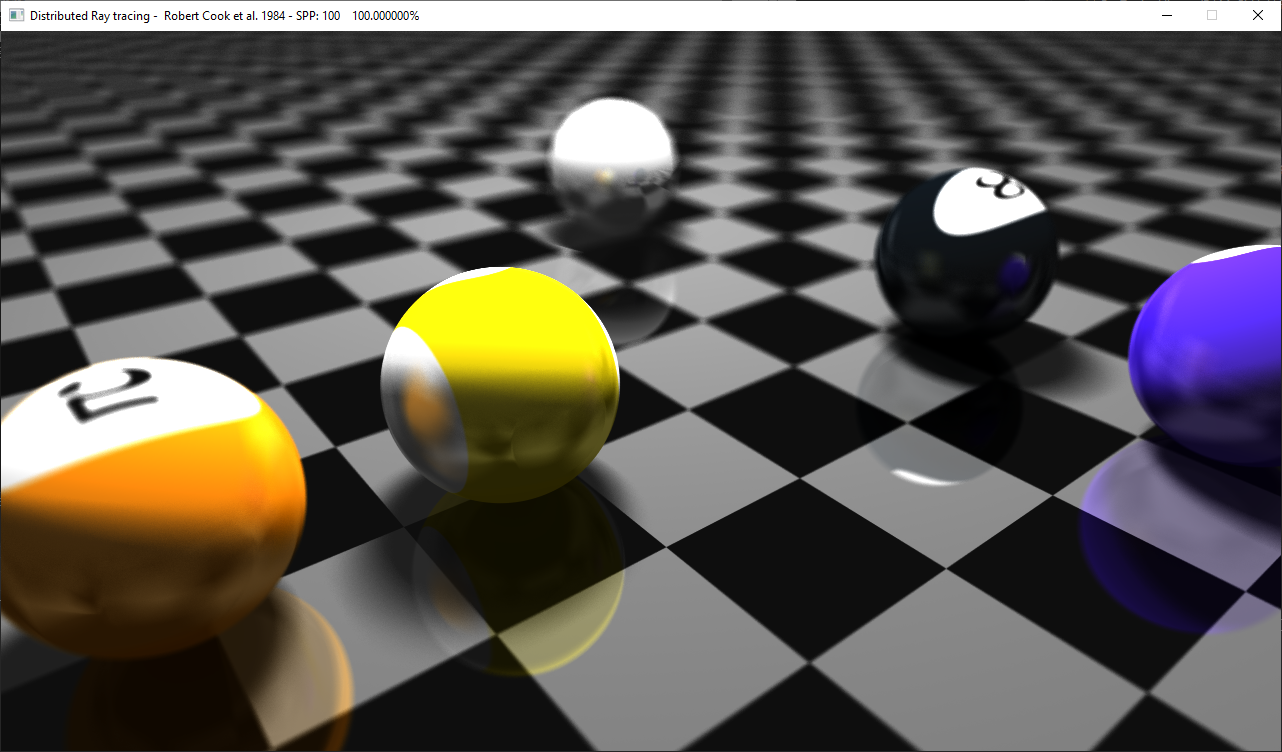
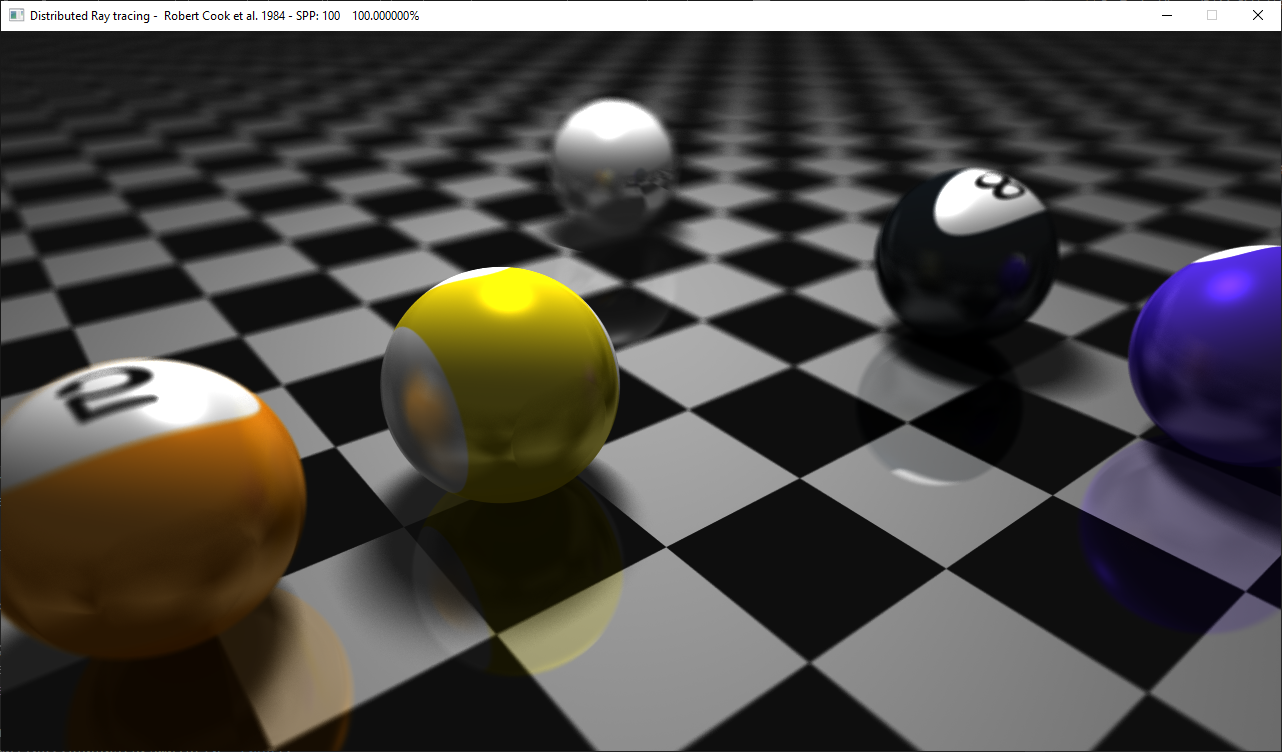
add specular

diff --git a/1984.Cook/code/AreaLight.h b/1984.Cook/code/AreaLight.h
@@ -31,7 +31,8 @@ struct AreaLight {
   }
 
   float lighting(const glm::vec3& shadingPt, const glm::vec3& normal,
-                 const glm::vec3& wo, const glm::vec2& xi) const {
+                 const glm::vec3& wo, const glm::vec2& xi,
+                 float shininess) const {
     glm::vec3 pos = corner + xi.x * edge1 + xi.y * edge2;
 
     glm::vec3 L = glm::normalize(pos - shadingPt);
@@ -47,7 +48,8 @@ struct AreaLight {
     }
 
     float diffuse = std::max(0.0f, NdotL) * falloff;
-    return intensity * (ambient + diffuse);
+    float spec = glm::pow(std::max(0.0f, NdotH), shininess) * falloff;
+    return intensity * (diffuse + spec);
   }
 
   AreaLight& setParallelogram(const glm::vec3& _edge1, const glm::vec3& _edge2,

diff --git a/1984.Cook/code/DistributedRayTracer.cpp b/1984.Cook/code/DistributedRayTracer.cpp
@@ -13,7 +13,7 @@
 namespace RayTracingHistory {
 constexpr float FLOAT_MAX = std::numeric_limits<float>::max();
 constexpr int MAX_BOUNCES = 32;
-constexpr int SPP_N = 4;
+constexpr int SPP_N = 3;
 constexpr float GAMA = 1.5f;
 
 std::string DistributedRayTracer::getInfo() const {
@@ -115,7 +115,7 @@ std::tuple<float, float> DistributedRayTracer::_shade(
     ambient = light.ambient;
     diffuse = 0;
   } else {
-    diffuse = light.lighting(shadingPoint.p, shadingPoint.normal, wo, xi);
+    diffuse = light.lighting(shadingPoint.p, shadingPoint.normal, wo, xi, mtl->shininess);
     ambient = light.ambient;
   }
   return std::make_tuple(ambient, diffuse);

diff --git a/1984.Cook/code/Material.h b/1984.Cook/code/Material.h
@@ -21,7 +21,13 @@ class Material : public MyMaterial {
  public:
   float gloss = 0.0f;
   float Kr = 0.4f;  // the reflection coefficient
+  float shininess = 88;
   glm::vec2 uvTiling = {1, 1};
+
+  Material& setShininess(float value) {
+    shininess = value;
+    return *this;
+  }
 
   Material& setGloss(float g) {
     gloss = g;

diff --git a/1984.Cook/code/BilliardSceneClone.h b/1984.Cook/code/BilliardSceneClone.h
@@ -33,6 +33,7 @@ class BilliardSceneClone : public MySceneWithLight {
     createObject<Plane>("table")
         .createMaterial<Material>()
         .setGloss(2.0f)
+        .setShininess(0.0f)
         .setCoefficient(0.0f)
         .setTexture2D("content/billiard/table.jpg")
         .setTiling(0.1f, 0.1f);

diff --git a/1984.Cook/code/BilliardSceneDemo.h b/1984.Cook/code/BilliardSceneDemo.h
@@ -32,6 +32,7 @@ class BilliardSceneDemo : public MySceneWithLight {
     createObject<Plane>("table")
         .createMaterial<Material>()
         .setGloss(0.2f)
+        .setShininess(4.0f)
         .setCoefficient(0.6f)
         .setCheckerTexture(glm::vec3(0, 0, 0), glm::vec3(0.4f, 0.4f, 0.4f));
 
